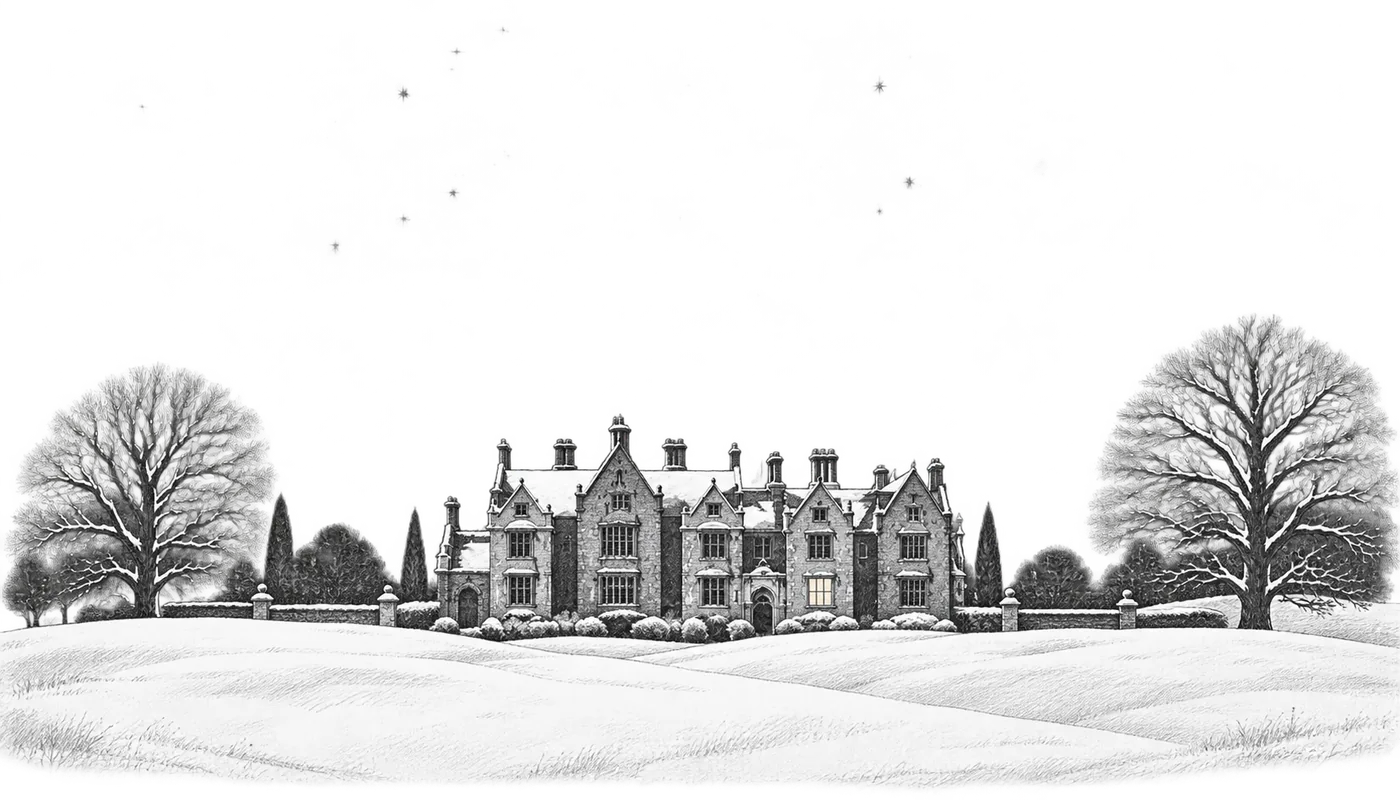
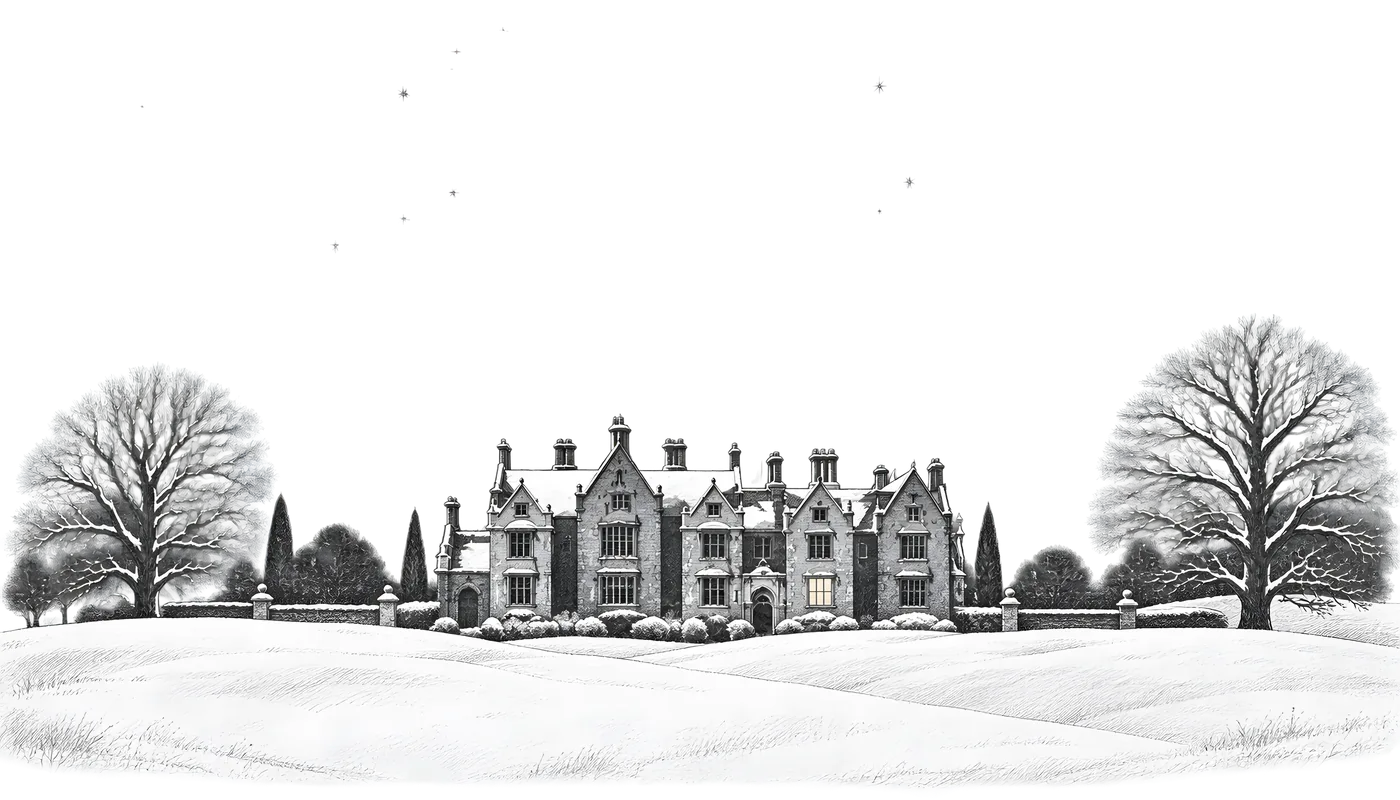
Sharper manor drawing on the home page
The manor picture is now a 3318 x 1896 Real-ESRGAN upscale of Astra's drawing, so it stays sharp on 2x screens. The srcset lists the full file at 3318w, and the 700 and 1400 copies are made from the same master.

Claude-Session: https://claude.ai/code/session_01N9XQsoFjWMQBKatRXLDf34

diff --git a/index.html b/index.html
@@ -991,13 +991,13 @@ html.js .col.is-leaving .c-text{transition:opacity .2s var(--change) .14s}
       <div class="col-in">
         <button class="c-open" type="button" id="b-6" aria-expanded="false" aria-controls="p-6">
           <span class="c-num"></span>
-          <span class="c-slice" aria-hidden="true"><img src="img/home/16-aldous-finch-manor-1400.webp" srcset="img/home/16-aldous-finch-manor-700.webp 700w, img/home/16-aldous-finch-manor-1400.webp 1400w, img/home/16-aldous-finch-manor-full.webp 1659w" sizes="(min-width:1280px) max(calc(0.7 * min(100vw - 128px, 1800px) - 368px), calc(4.13 * (100vh - 400px))), (max-width:529px) 119vw, 1100px" width="1400" height="800" alt="" loading="eager" decoding="sync"></span>
+          <span class="c-slice" aria-hidden="true"><img src="img/home/16-aldous-finch-manor-1400.webp" srcset="img/home/16-aldous-finch-manor-700.webp 700w, img/home/16-aldous-finch-manor-1400.webp 1400w, img/home/16-aldous-finch-manor-full.webp 3318w" sizes="(min-width:1280px) max(calc(0.7 * min(100vw - 128px, 1800px) - 368px), calc(4.13 * (100vh - 400px))), (max-width:529px) 119vw, 1100px" width="1400" height="800" alt="" loading="eager" decoding="sync"></span>
           <span class="c-text"></span>
           <span class="f-win" aria-hidden="true"></span>
         </button>
         <div class="panel" id="p-6">
           <div class="entry">
-            <span class="art"><a class="fx-link" href="A-Salon-of-Witnesses/who-killed-aldous-finch.html" tabindex="-1" aria-hidden="true"><span class="fx" data-card="6" style="--far:1.75"><img class="fx-img" src="img/home/16-aldous-finch-manor-1400.webp" srcset="img/home/16-aldous-finch-manor-700.webp 700w, img/home/16-aldous-finch-manor-1400.webp 1400w, img/home/16-aldous-finch-manor-full.webp 1659w" sizes="(min-width:1280px) max(calc(0.7 * min(100vw - 128px, 1800px) - 368px), calc(4.13 * (100vh - 400px))), (min-width:600px) 38rem, calc(100vw - 2.8rem)" width="1400" height="800" alt="Harrow Manor at night in falling snow, one study window lit warm." loading="eager" decoding="sync"></span></a></span>
+            <span class="art"><a class="fx-link" href="A-Salon-of-Witnesses/who-killed-aldous-finch.html" tabindex="-1" aria-hidden="true"><span class="fx" data-card="6" style="--far:1.75"><img class="fx-img" src="img/home/16-aldous-finch-manor-1400.webp" srcset="img/home/16-aldous-finch-manor-700.webp 700w, img/home/16-aldous-finch-manor-1400.webp 1400w, img/home/16-aldous-finch-manor-full.webp 3318w" sizes="(min-width:1280px) max(calc(0.7 * min(100vw - 128px, 1800px) - 368px), calc(4.13 * (100vh - 400px))), (min-width:600px) 38rem, calc(100vw - 2.8rem)" width="1400" height="800" alt="Harrow Manor at night in falling snow, one study window lit warm." loading="eager" decoding="sync"></span></a></span>
             <div class="words">
               <p class="title"><a href="A-Salon-of-Witnesses/who-killed-aldous-finch.html"><span class="num">6</span><span class="tt">Who Killed Aldous Finch? A Transformer Explainer</span></a></p>
               <p class="blurb">Solve the murder and you will know how artificial minds learned to think and understand our world. A plain-language guide to the transformer, the architecture they are built on.</p>
